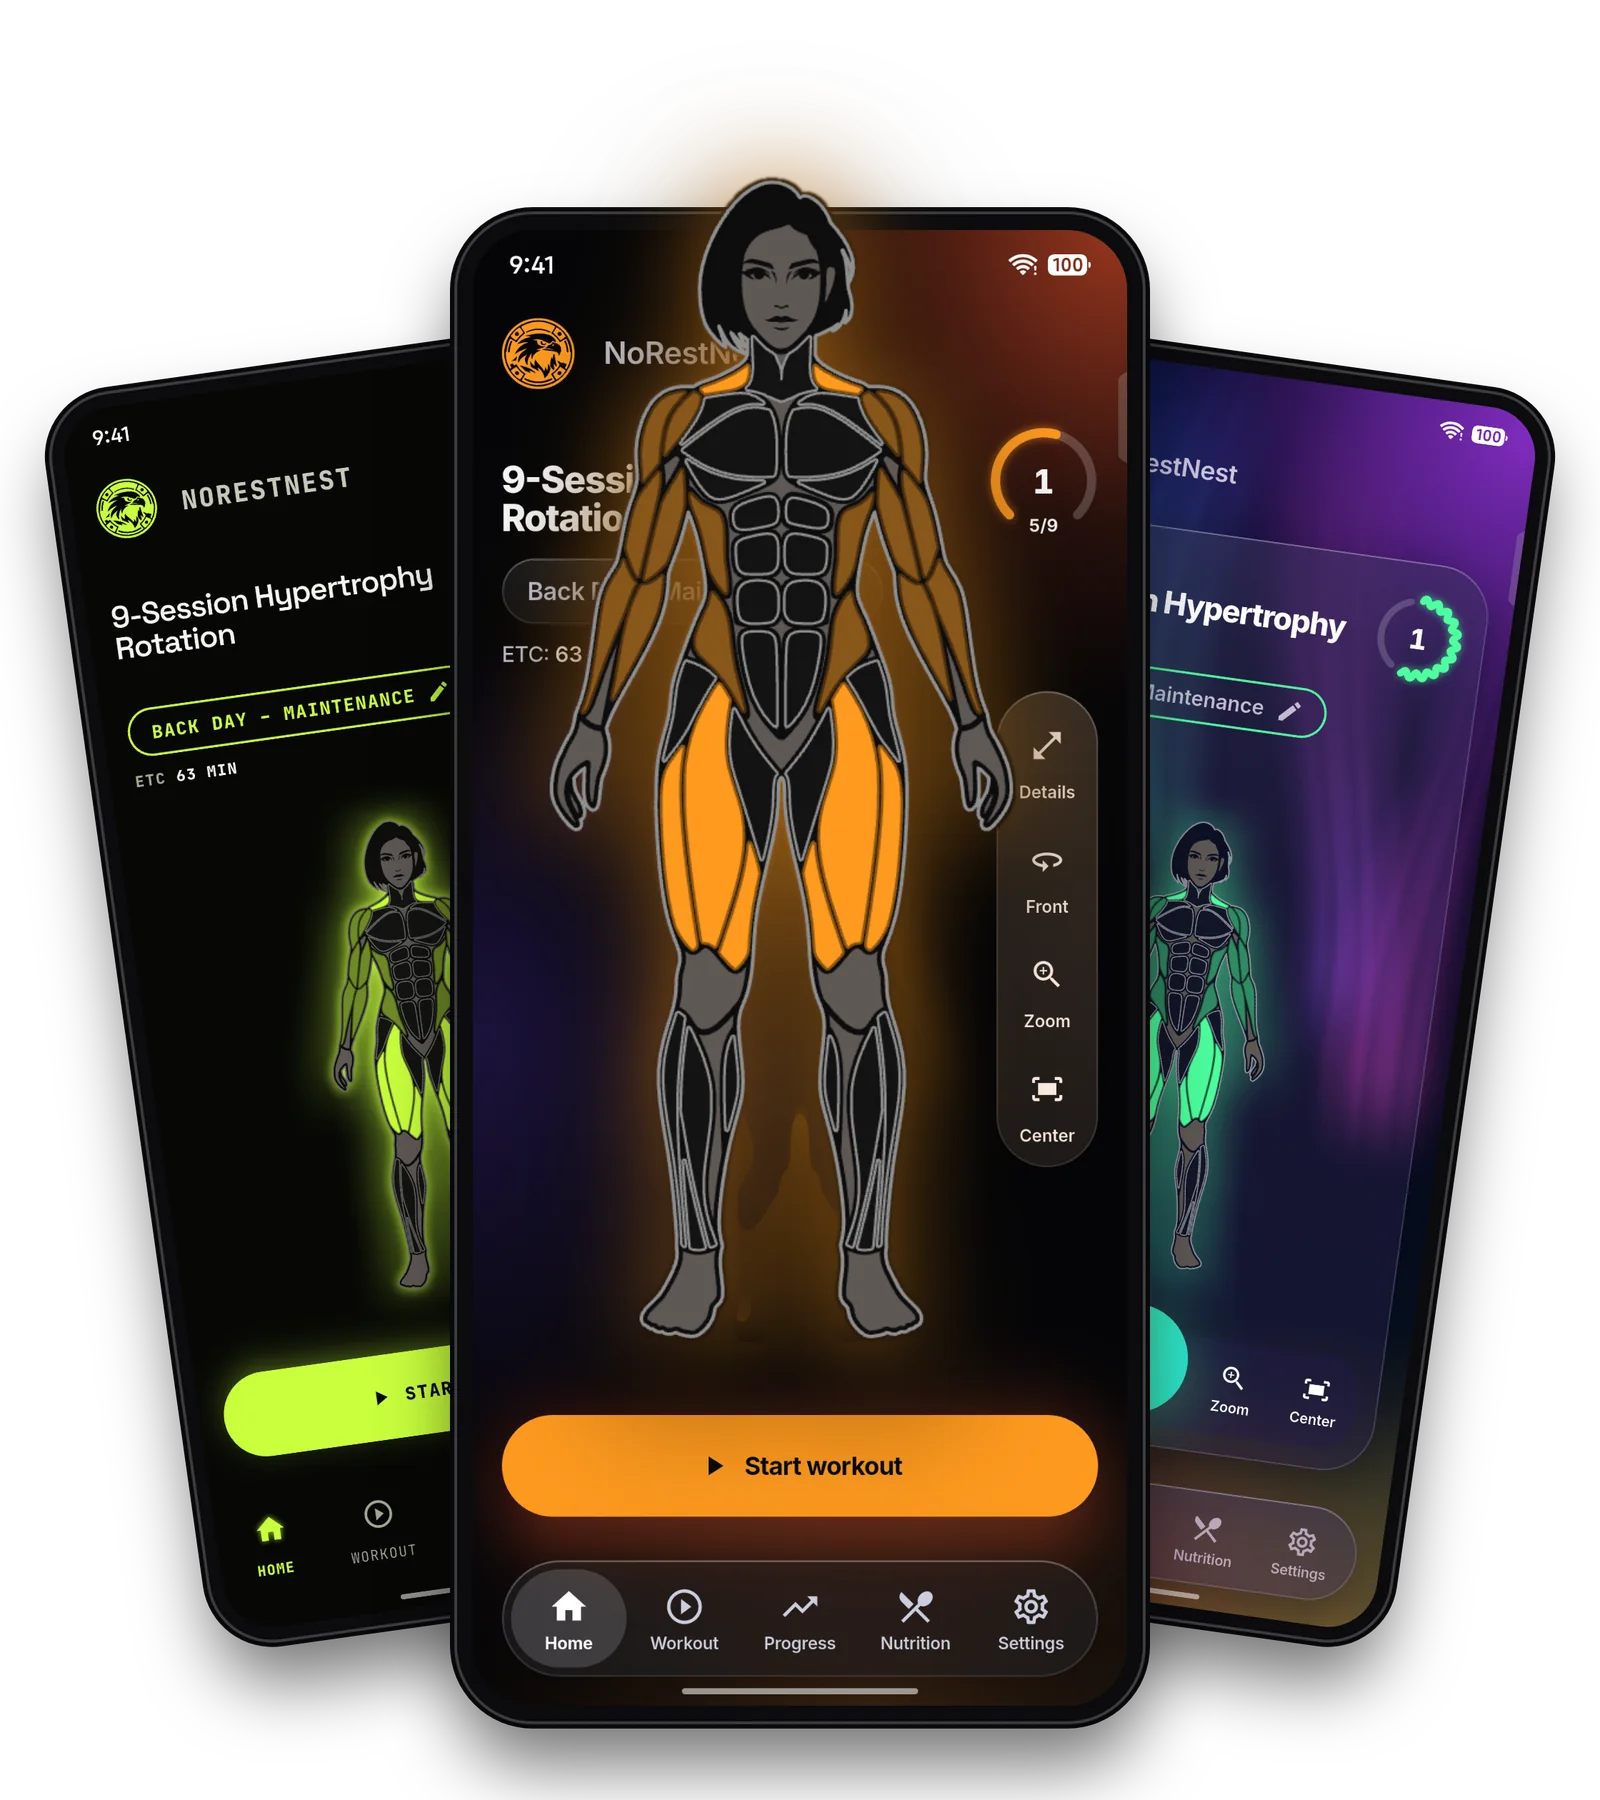
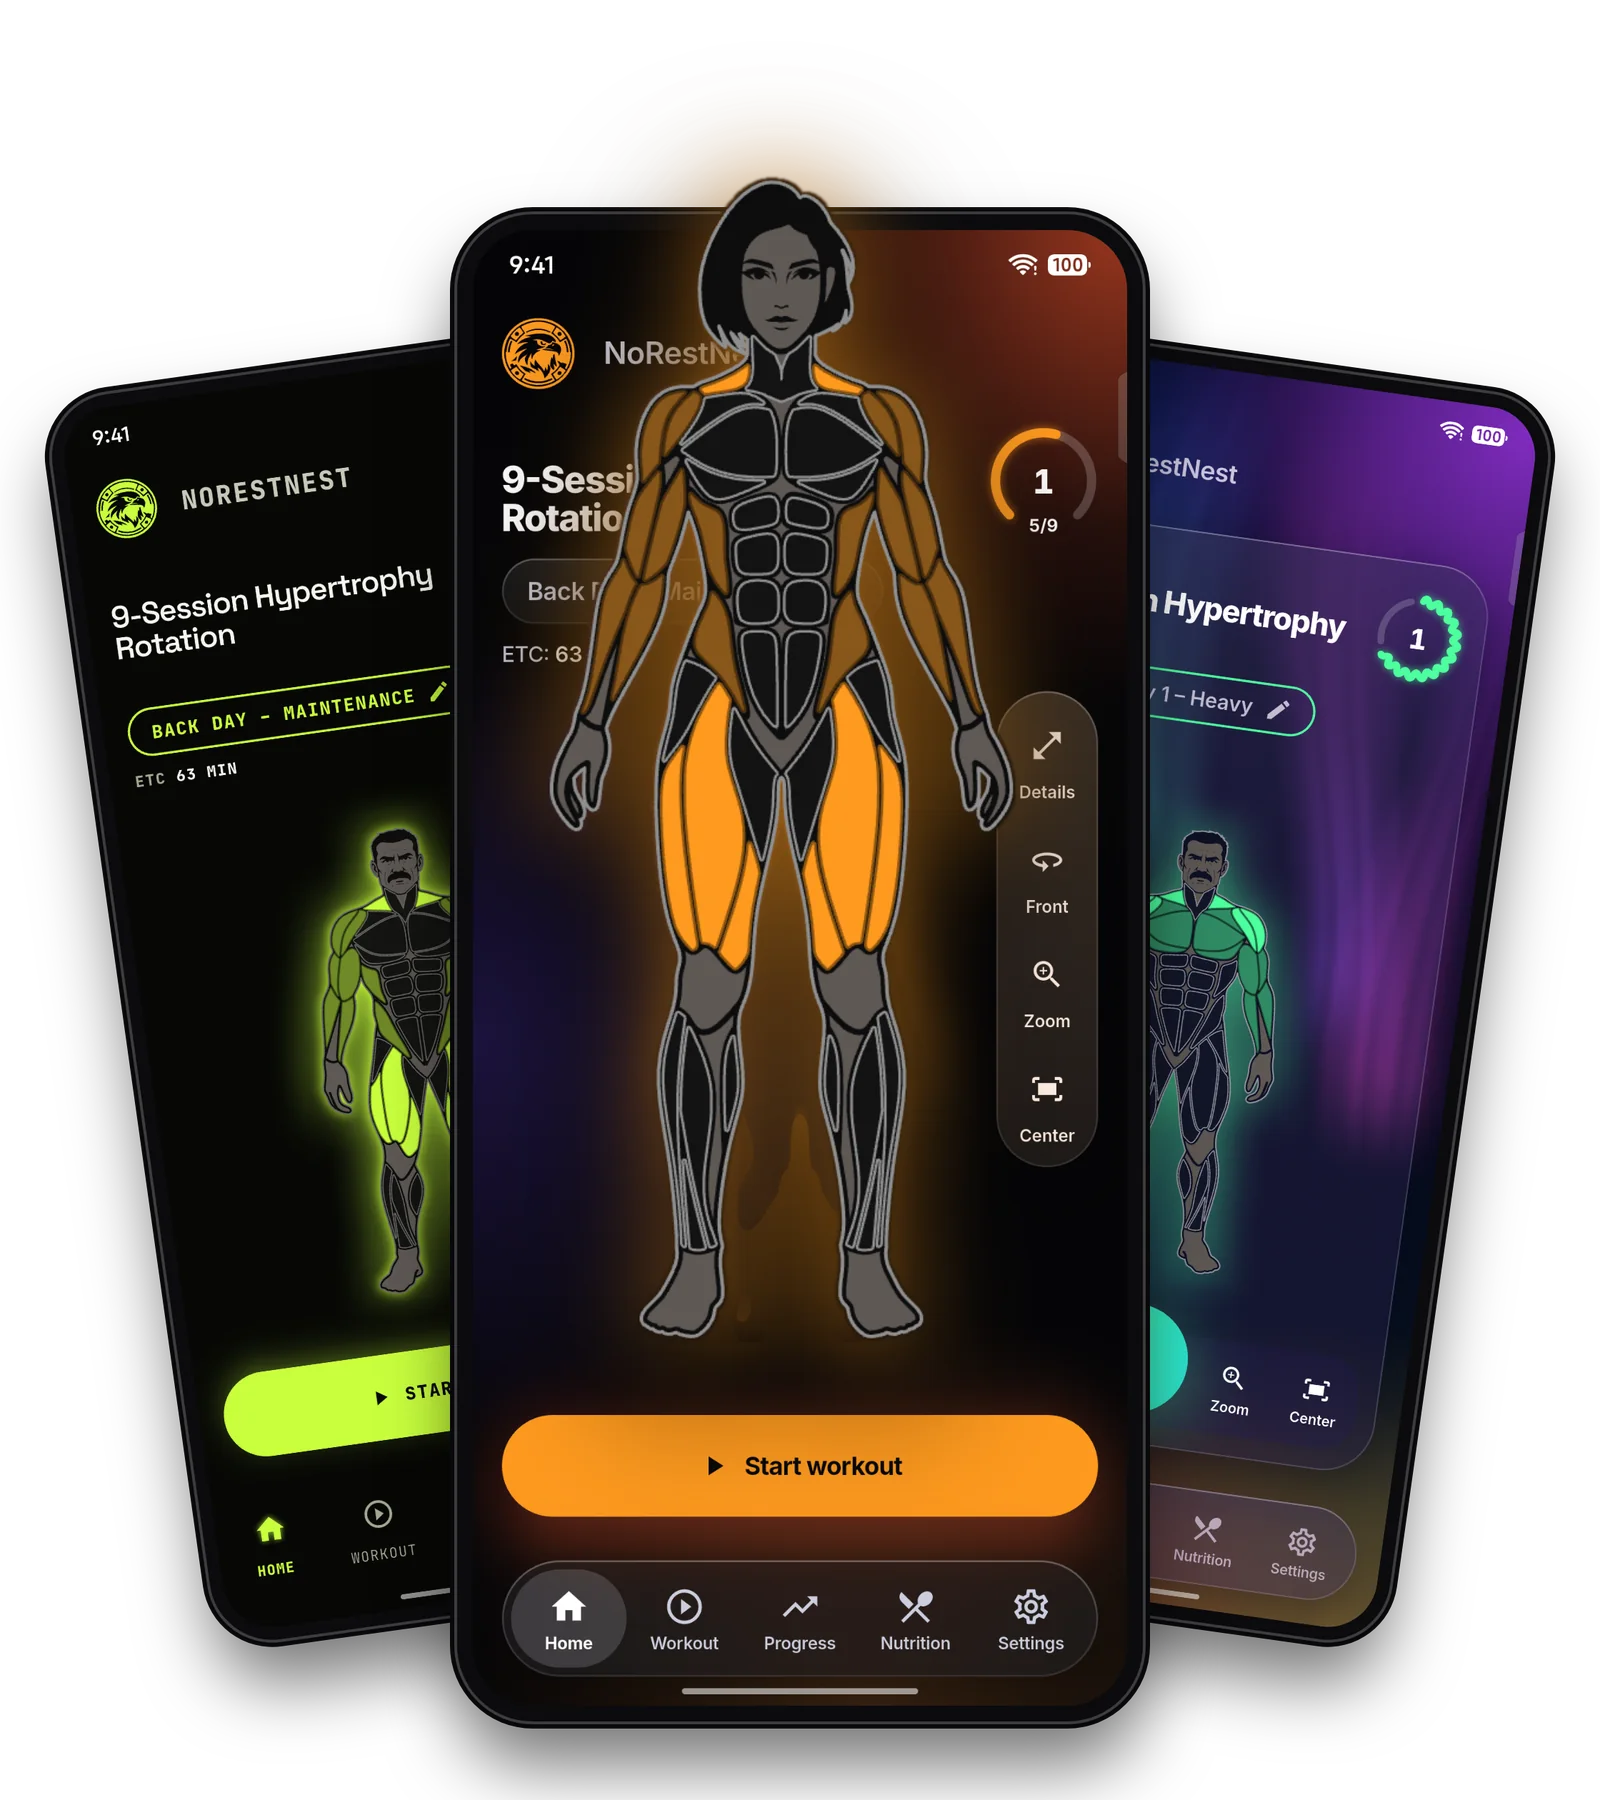
Hero: Neon and Aurora phones show the male body

diff --git a/index.html b/index.html
@@ -64,9 +64,9 @@
     </div>
     <div class="scene">
       <div class="stack">
-        <img data-look="neon" src="/assets/img/scenes/hero_neon.webp" width="1600" height="1800" alt="Home screen, Neon look" decoding="async" />
-        <img data-look="glass" src="/assets/img/scenes/hero_glass.webp" width="1600" height="1800" alt="Home screen, Glass look" decoding="async" />
-        <img data-look="aurora" src="/assets/img/scenes/hero_aurora.webp" width="1600" height="1800" alt="Home screen, Aurora look" decoding="async" />
+        <img data-look="neon" src="/assets/img/scenes/hero_neon.webp?v=2" width="1600" height="1800" alt="Home screen, Neon look" decoding="async" />
+        <img data-look="glass" src="/assets/img/scenes/hero_glass.webp?v=2" width="1600" height="1800" alt="Home screen, Glass look" decoding="async" />
+        <img data-look="aurora" src="/assets/img/scenes/hero_aurora.webp?v=2" width="1600" height="1800" alt="Home screen, Aurora look" decoding="async" />
       </div>
       <div class="looks" role="group" aria-label="App look">
         <button type="button" data-look="neon"   style="--c:#C8FF3D">NEON</button>
